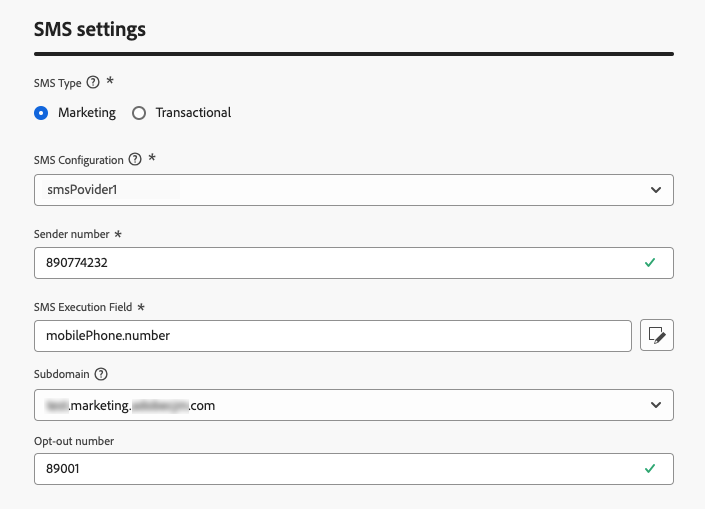
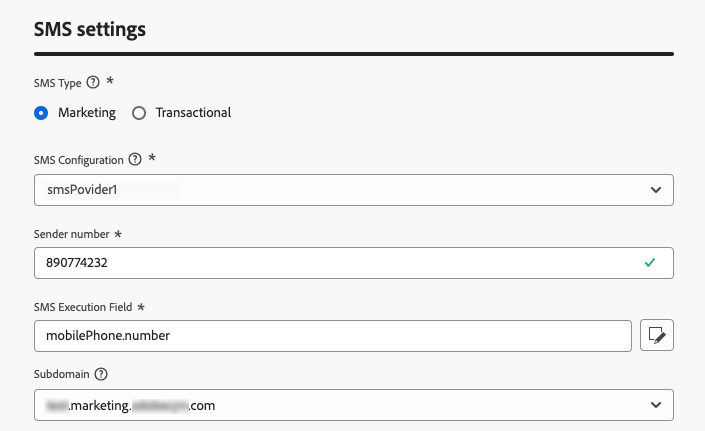
Update SMS feedback Travis

Changed region(s): [[0.0312, 0.0302, 0.9674, 0.9652], [0.8738, 0.6032, 0.9674, 0.6937], [0.905, 0.4826, 0.9362, 0.5128]]

diff --git a/help/using/sms/sms-configuration-surface.md b/help/using/sms/sms-configuration-surface.md
@@ -61,12 +61,6 @@ To create a channel surface, follow these steps:
     >
     >To be able to select a subdomain, make sure you have previously configured at least one SMS/MMS subdomain. [Learn how](sms-subdomains.md)
 
-1. Enter the **[!UICONTROL Opt-out number]** you want to use for this surface. When profiles opt out from this number, you are still able to send them messages from other numbers you may be using to send out text messages with [!DNL Journey Optimizer].
-
-    >[!NOTE]
-    >
-    >In [!DNL Journey Optimizer], opt-out for text messages is no longer managed at the channel level. It is now specific to a number.
-
 1. Once all the parameters have been configured, click **[!UICONTROL Submit]** to confirm. You can also save the channel surface as draft and resume its configuration later on.
 
     ![](assets/sms-submit-surface.png)
